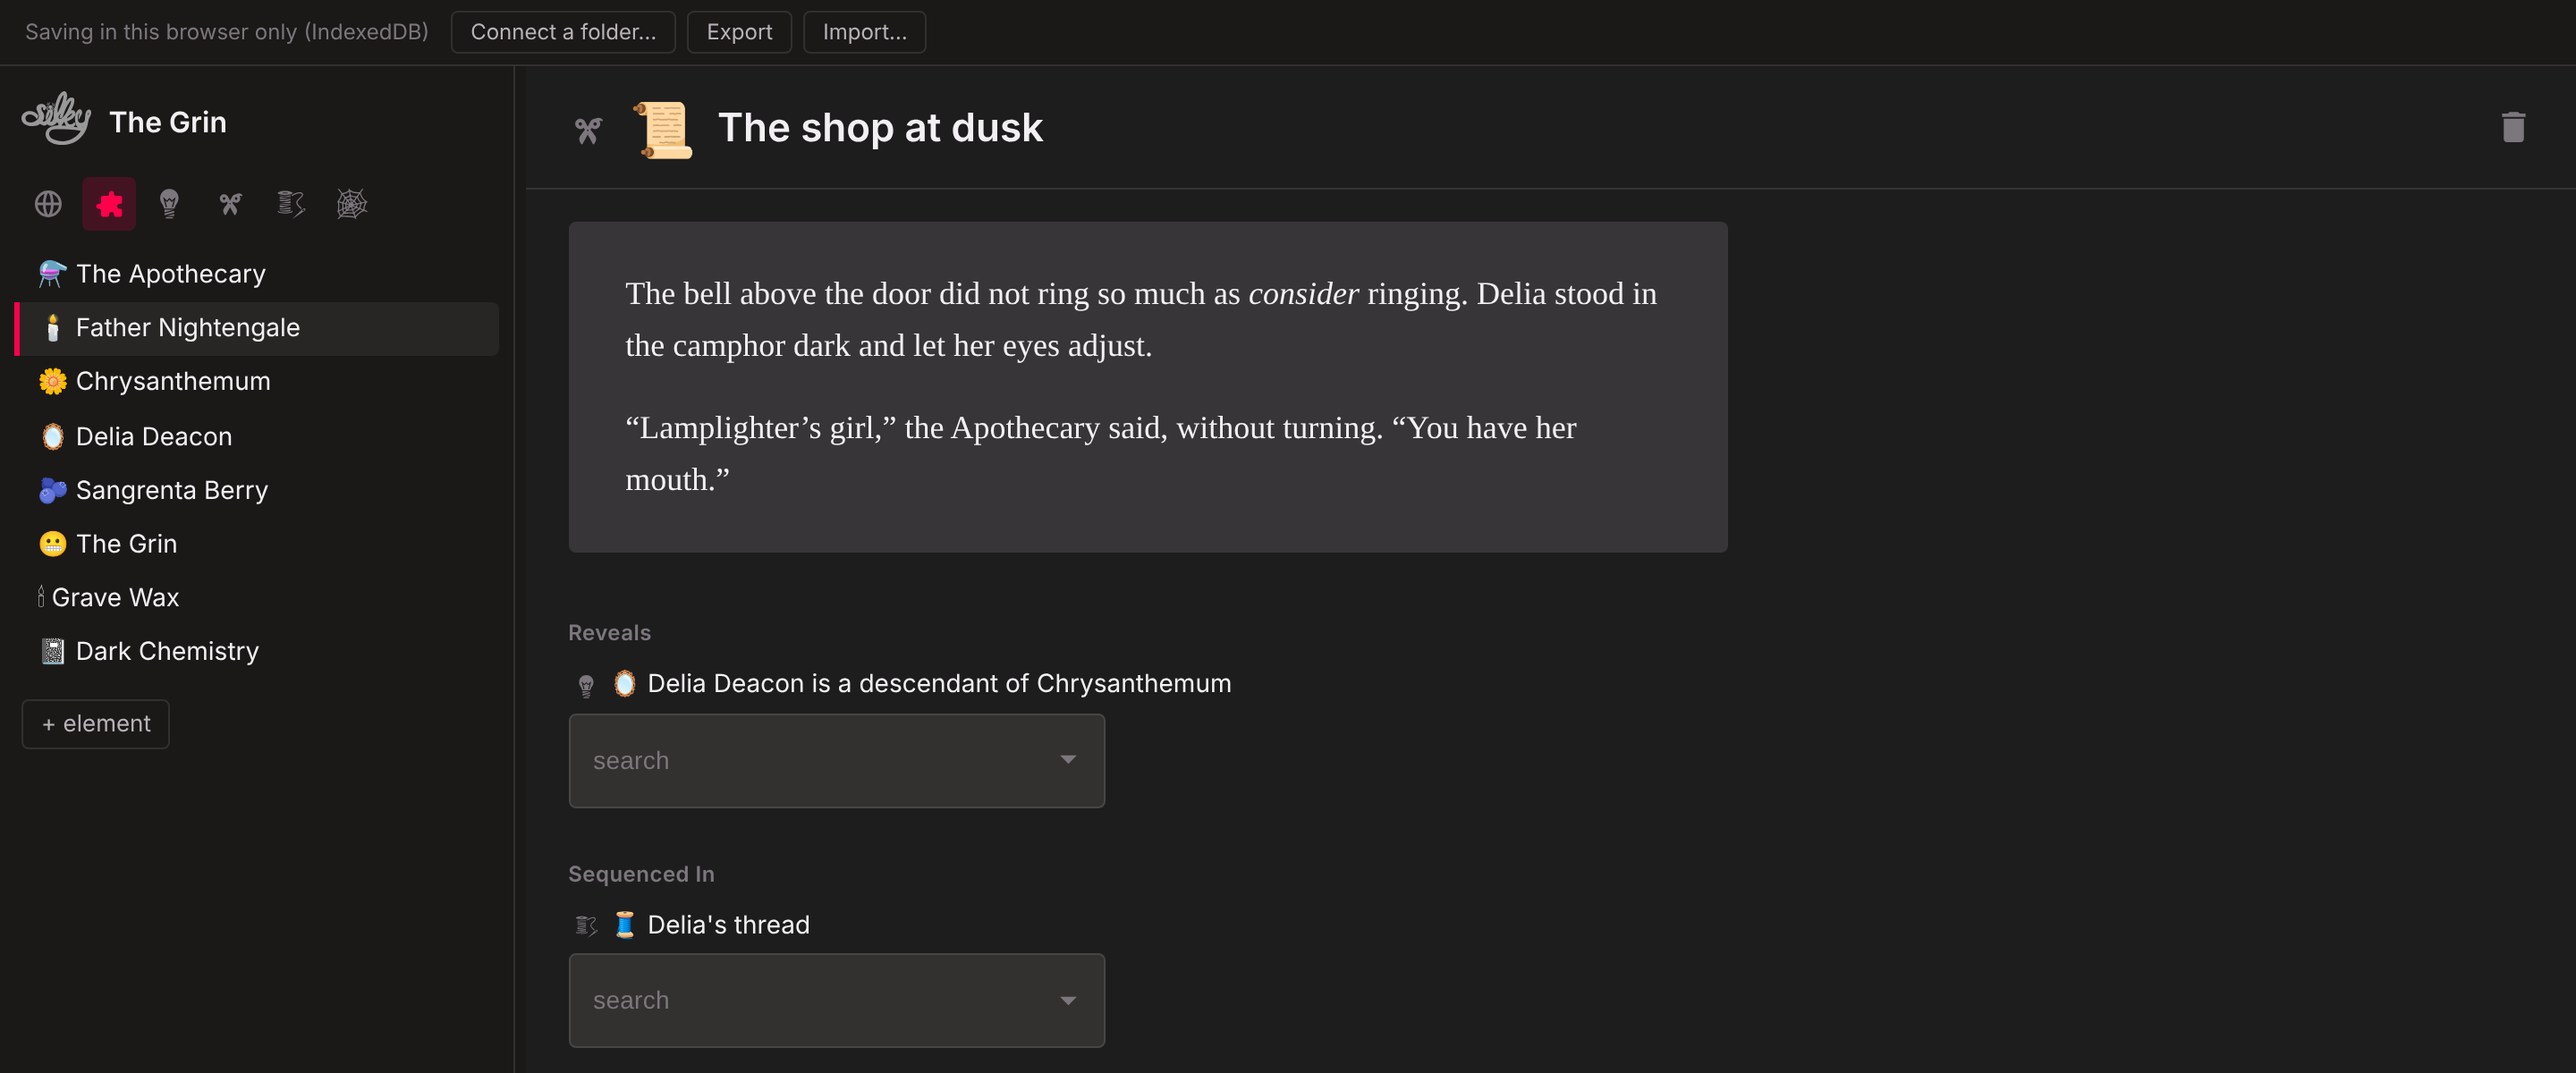
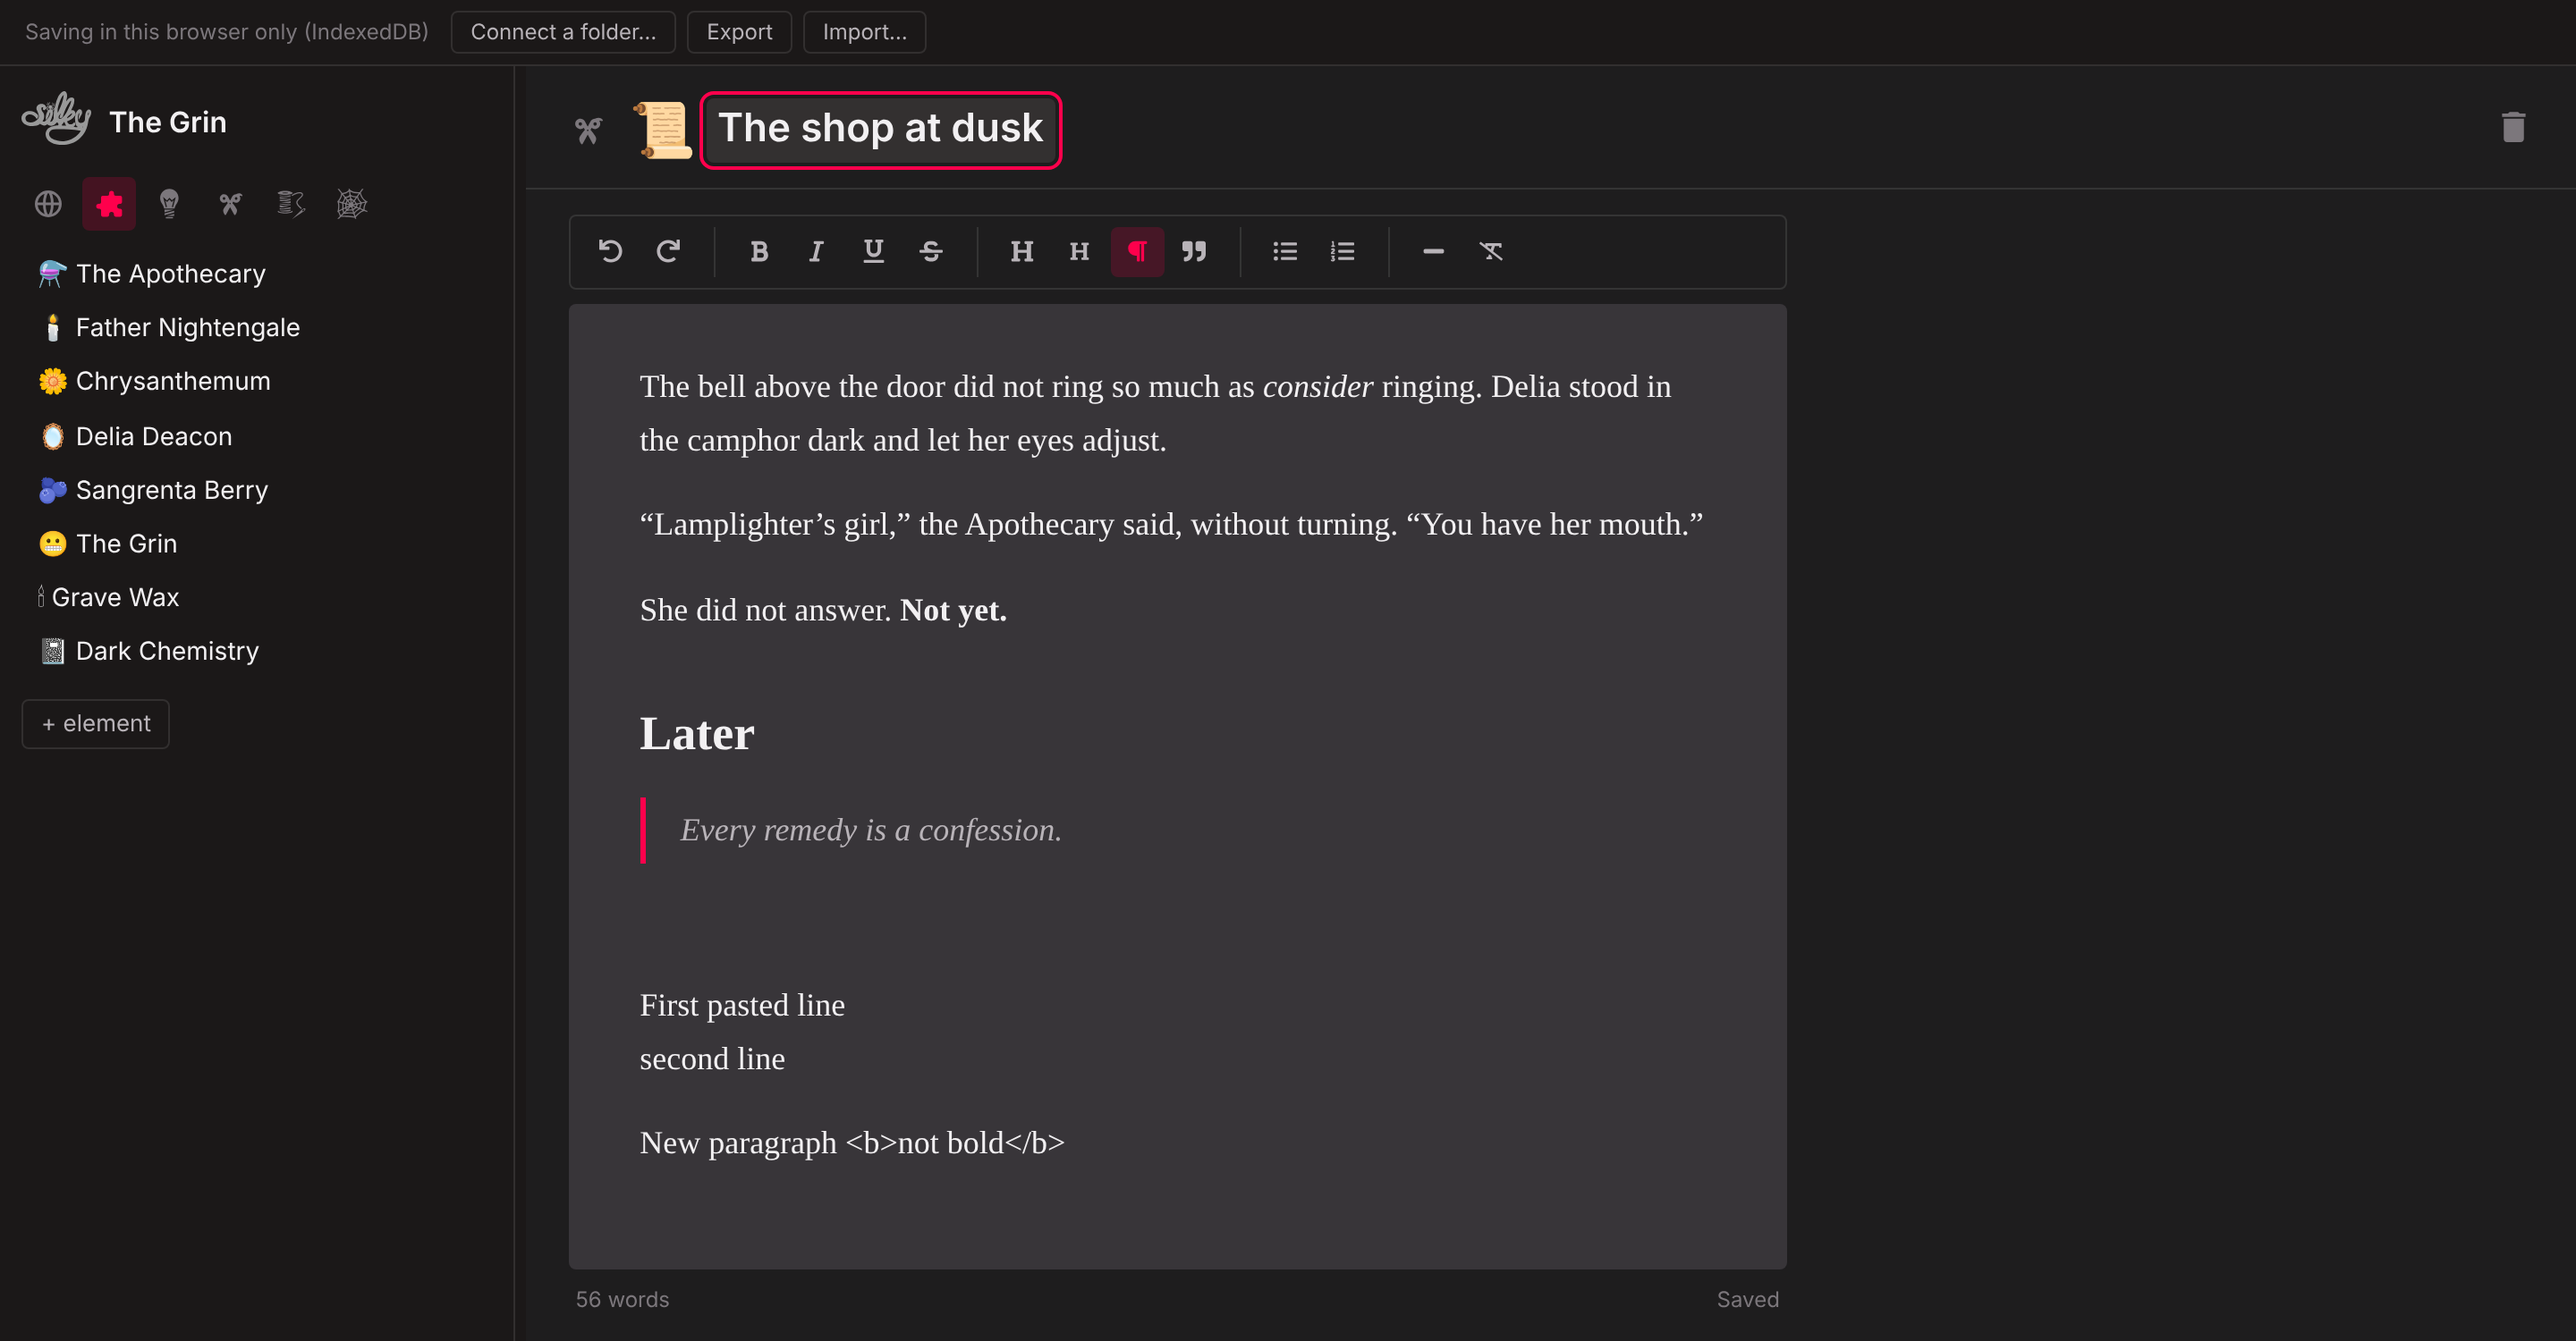
Editor: let the scene-break glyph render
Claude-Session: https://claude.ai/code/session_01Lk5Rd19k9M4CCiZTwTCz2S

diff --git a/src/Components/TextEditor/TextEditor.css b/src/Components/TextEditor/TextEditor.css
@@ -99,7 +99,8 @@
 .page li { margin: 0.2em 0; }
 .page hr {
   border: 0;
-  height: 0;
+  height: auto;
+  overflow: visible;   /* the UA sheet hides overflow on hr, which would clip the glyph */
   margin: 1.8em auto;
   text-align: center;
   color: var(--ink-muted);
